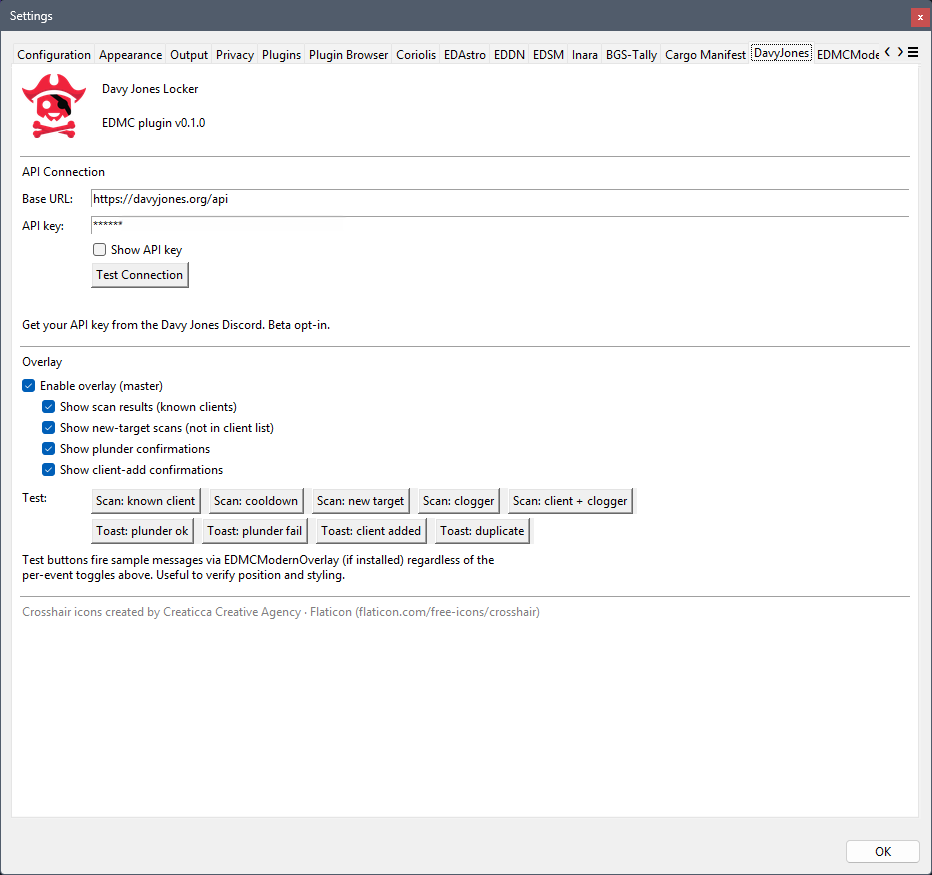
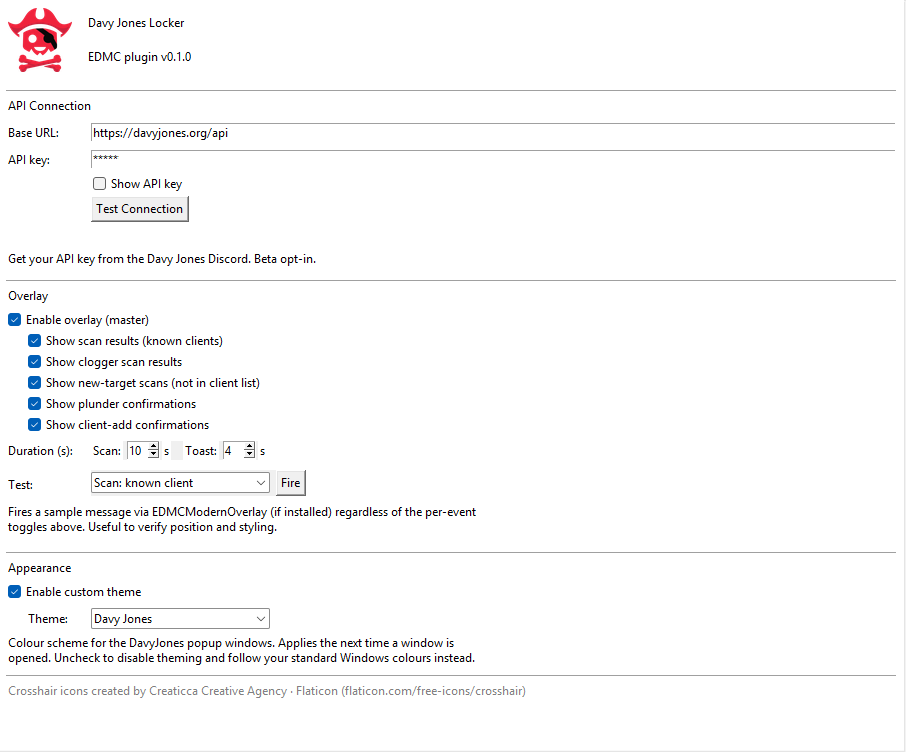
Updated screen docs

Changed region(s): [[0.0, 0.0, 1.0, 0.9481], [0.8962, 0.9481, 1.0, 1.0], [0.0, 0.9787, 0.0309, 1.0]]

diff --git a/docs/screens.md b/docs/screens.md
@@ -42,11 +42,23 @@ The master toggle controls all HUD messages. Individual toggles below it let you
 |---|---|
 | Enable overlay (master) | All HUD output on/off. |
 | Show scan results | Coloured banner when a scanned CMDR is found in the client list. |
+| Show clogger scan results | Banner when a scanned CMDR has an active clogger report. |
 | Show new-target scans | Banner for CMDRs not in the list. Off by default — fires on every scan. |
 | Show plunder confirmations | Toast when a plunder report is submitted. |
 | Show client-add confirmations | Toast when a client is added. |
 
-**Test buttons** fire sample messages via EDMCModernOverlay regardless of the per-event toggles. Use them to verify banner position and colour before going into the game.
+**Duration (s)** sets how long messages stay on screen: *Scan* controls the scan-result banner, *Toast* controls the confirmation toasts.
+
+**Test** fires a sample message — pick an event type from the dropdown and click **Fire**. Test messages bypass the per-event toggles above, so you can verify banner position and colour before going into the game.
+
+### Appearance
+
+| Setting | Description |
+|---|---|
+| Enable custom theme | On by default. Uncheck to disable theming and follow your standard Windows colours instead. When unchecked, the theme dropdown is greyed out (your chosen theme is remembered for when you turn it back on). |
+| Theme | Colour scheme for the DavyJones popup windows. Options: **Davy Jones** (default — black/blood-red), **Imperial Gold**, **Classic Amber**, **Elite Orange**, and **Plain** (neutral dark grey). |
+
+Theme changes apply the next time a window is opened — already-open windows aren't repainted. The EDMC main panel is unaffected; theming only covers the DavyJones popup windows.
 
 ---
 